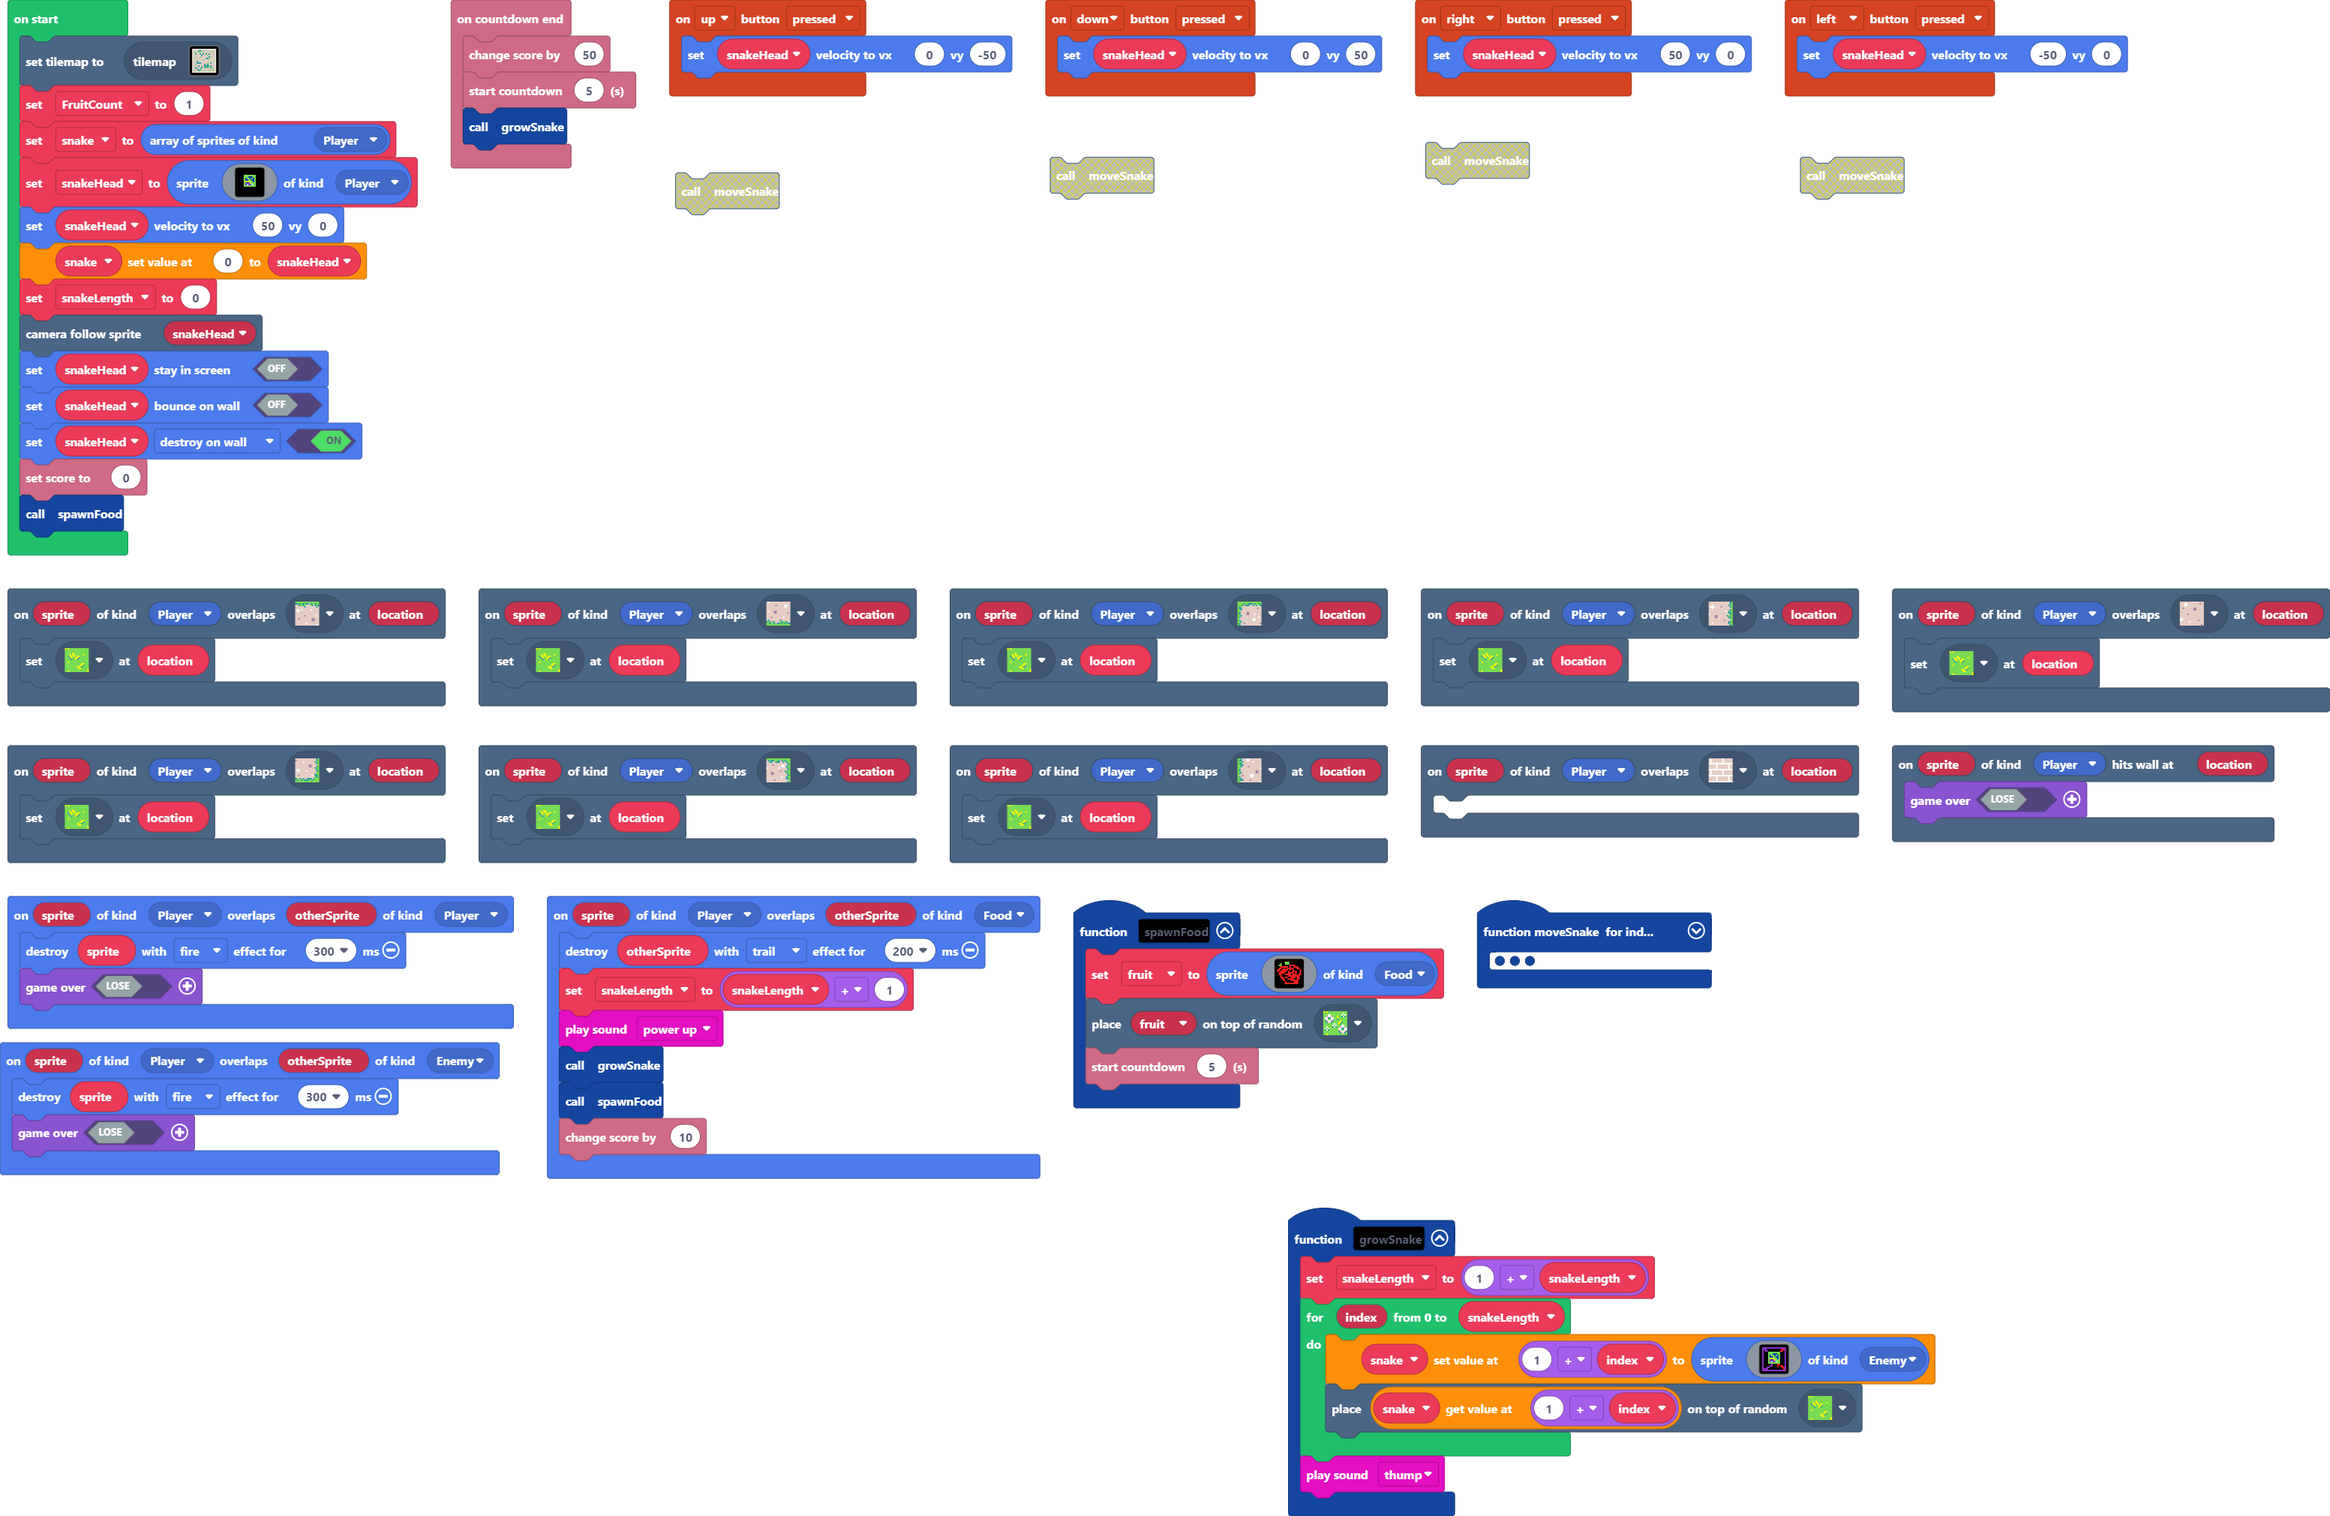
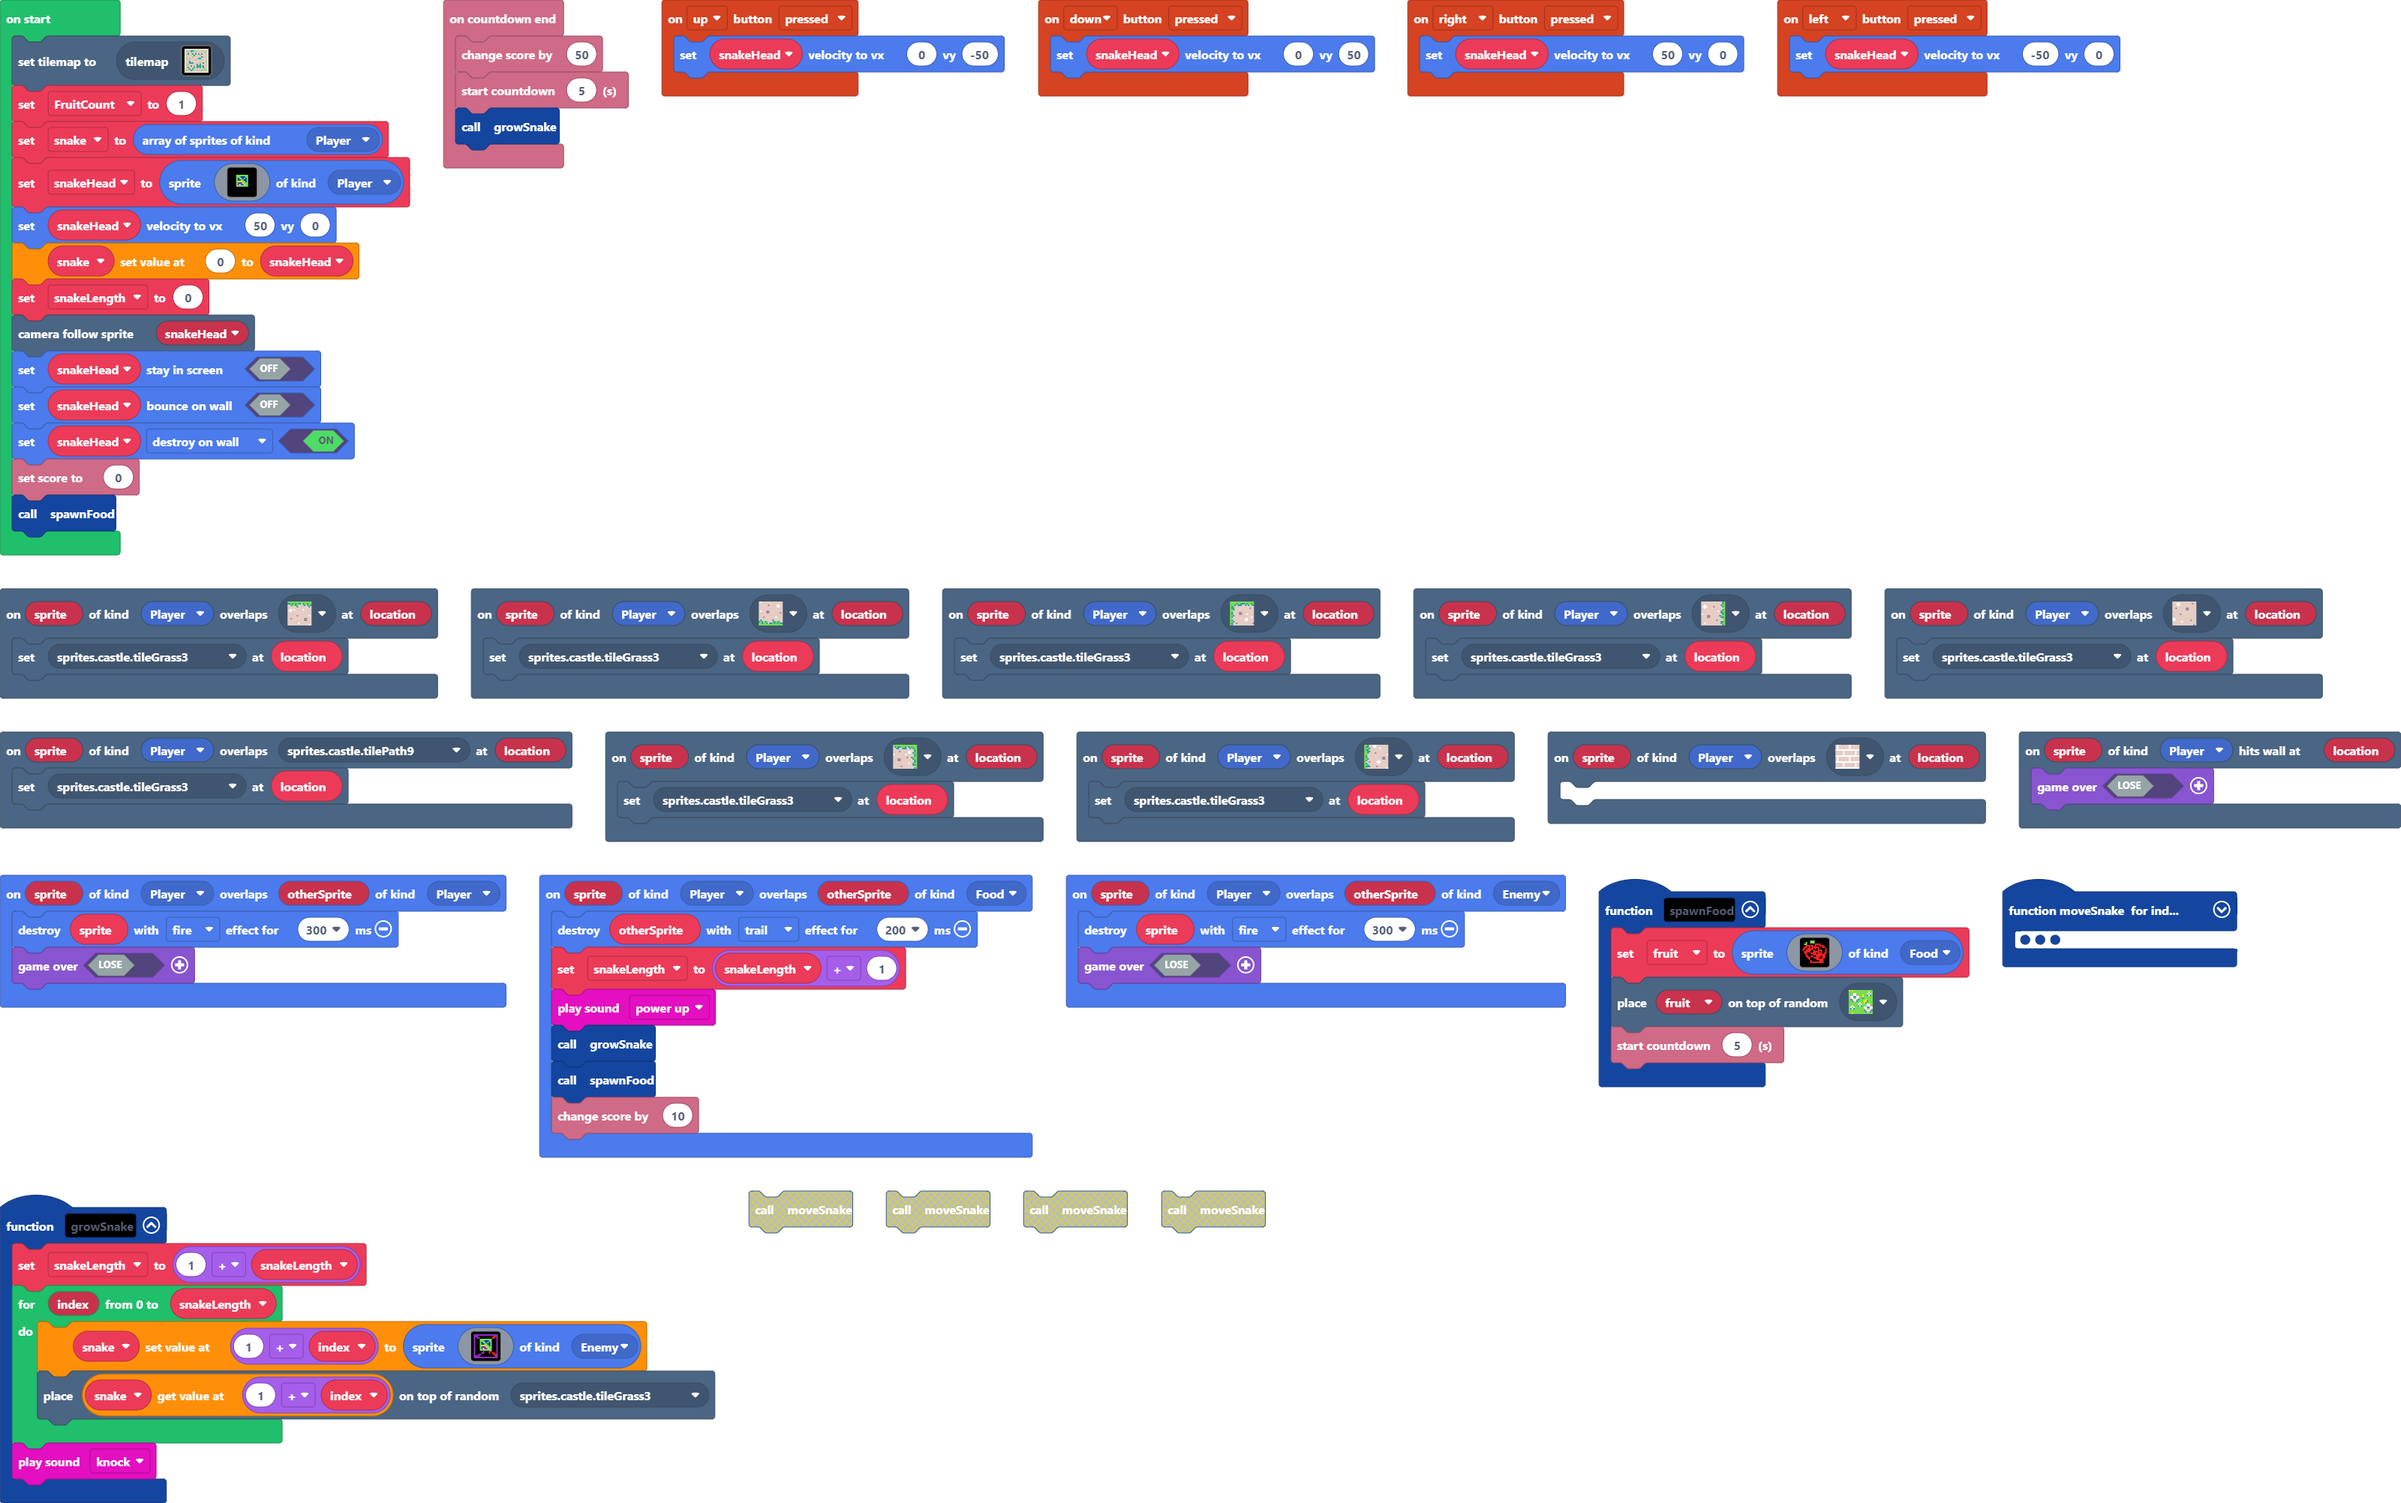
Update main.blocks, main.ts

diff --git a/main.ts b/main.ts
@@ -72,7 +72,7 @@ function growSnake () {
             `, SpriteKind.Enemy)
         tiles.placeOnRandomTile(snake[1 + index], sprites.castle.tileGrass3)
     }
-    music.thump.play()
+    music.knock.play()
 }
 controller.right.onEvent(ControllerButtonEvent.Pressed, function () {
     snakeHead.setVelocity(50, 0)
